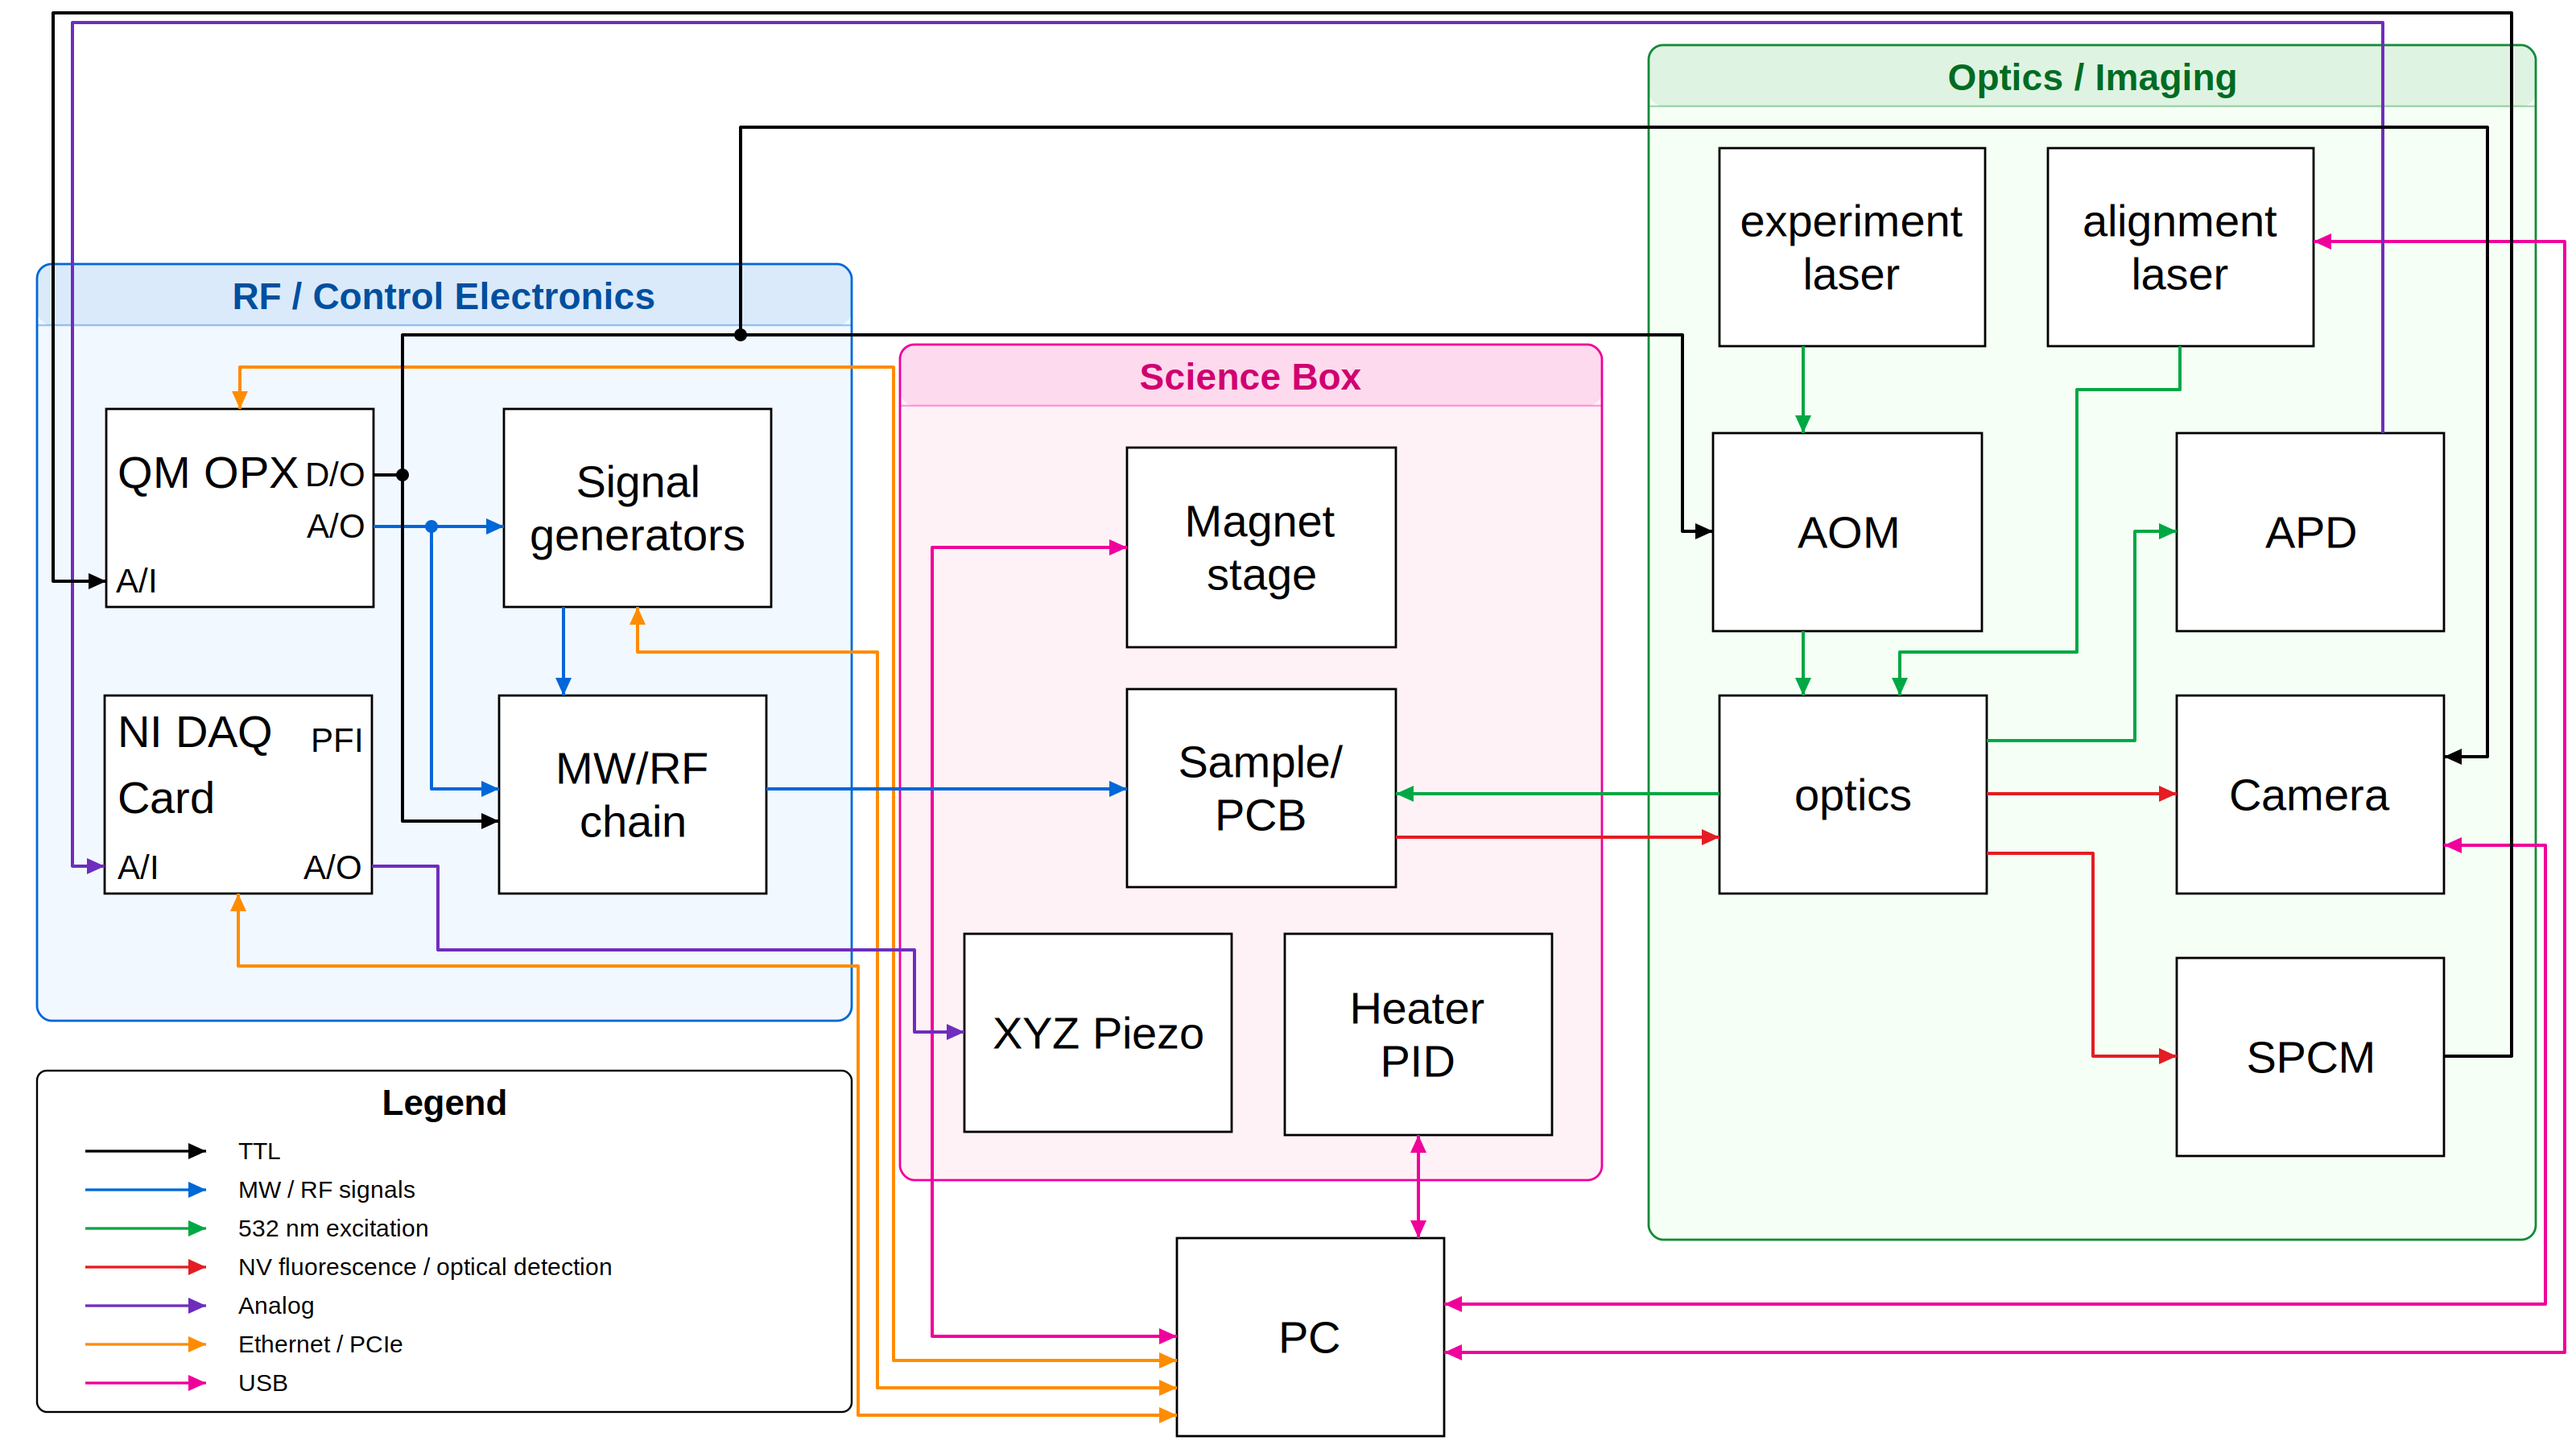
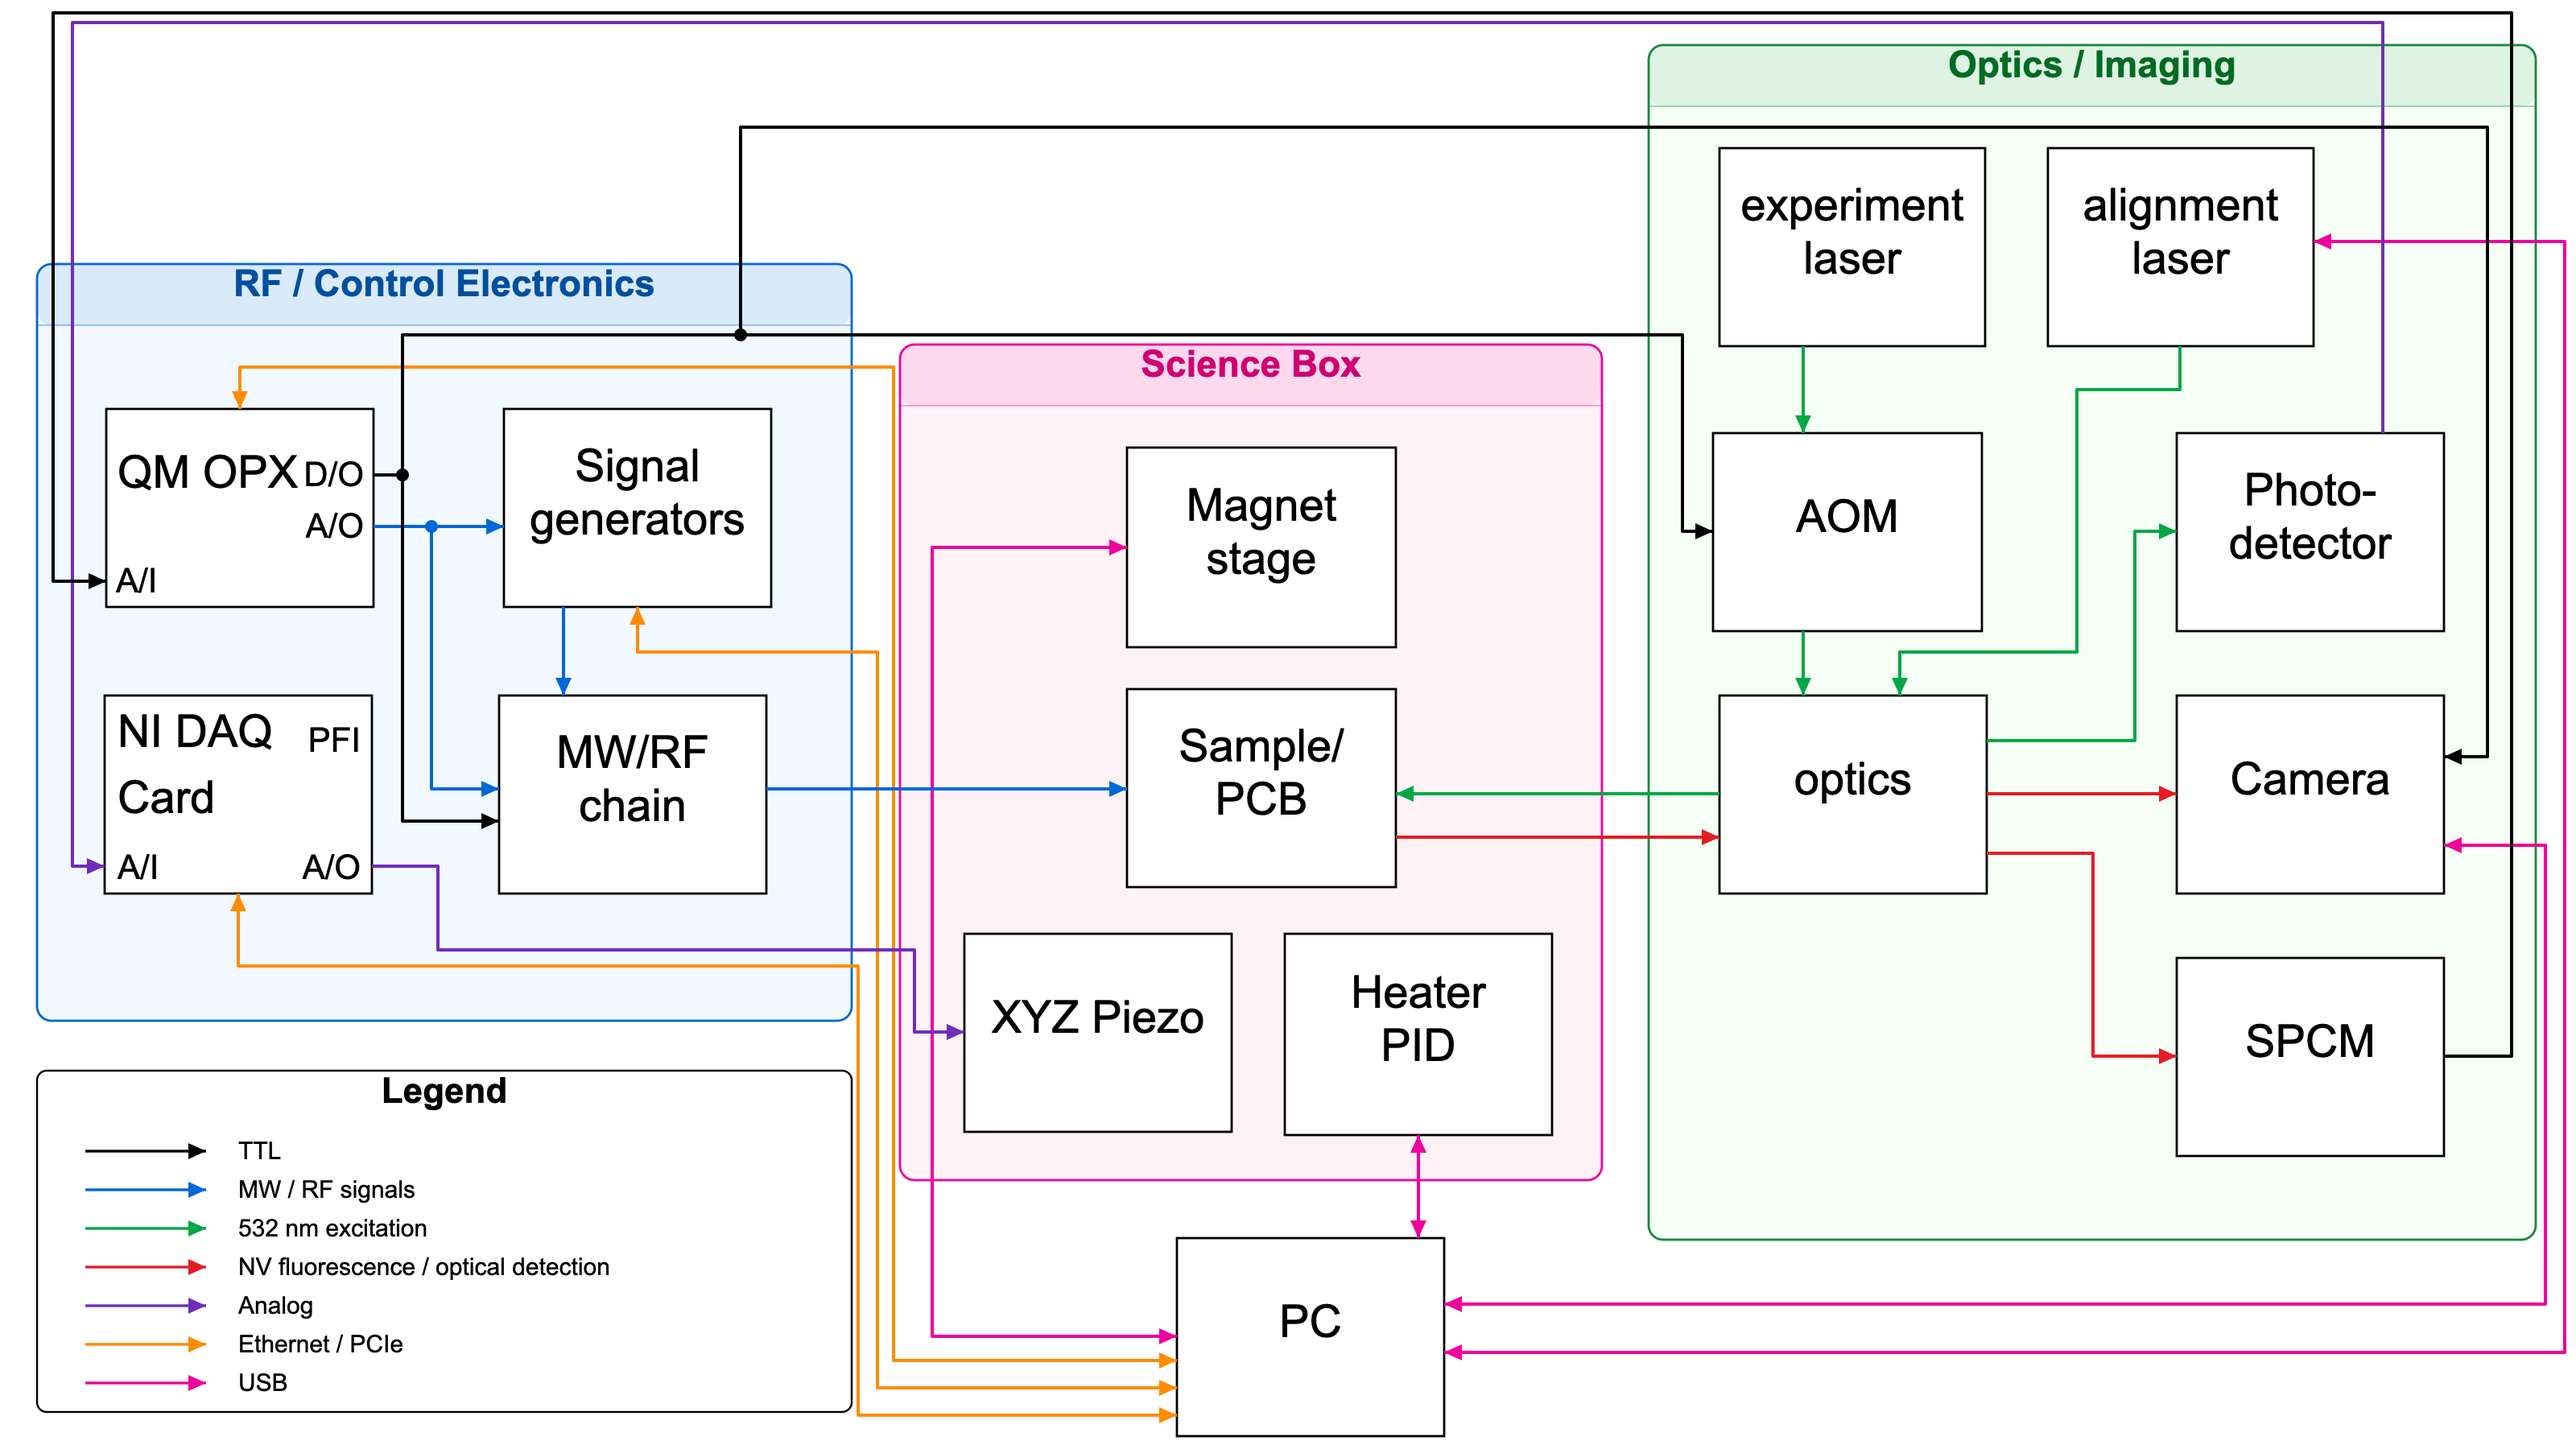
Update optics figures: photodetector symbols, new objective, cropped photo
- Replace the "APD" box in the optics schematic with a photodetector
  symbol (Thorlabs DET36A) and add the DET36A to the components table;
  relabel it in the system block diagram too
- Draw the SPCM in the confocal collection-path figure with the same
  photodetector symbol
- Replace the objective in the objective/sample figure with the
  drawing from the Draper symposium figure
- Crop the excitation-optics photo to the optical table; size the two
  photos proportionally so they stay on one row at equal height, and
  link each to its full-size image
- Write f_obj = f_tube / M with the 200 mm Nikon tube lens
- Link the CPW mention in the optics page to the CPW section on the
  RF page
- Fix the widefield beam-size sentence and the CPW/PCB photo caption
  (the objective is below the sample; the magnet mount is above)

diff --git a/docs/source/system_overview/optics.md b/docs/source/system_overview/optics.md
@@ -37,13 +37,14 @@ Schematic of the NV fluorescence microscope setup for confocal and widefield ima
 
 ```{raw} html
 <figure style="margin: 1.5rem 0;">
-  <div style="display: flex; gap: 0.75rem; align-items: flex-start; justify-content: center; flex-wrap: wrap;">
-    <div style="text-align: center;">
-      <img src="../_static/images/excitation_photo.png" style="display: block; margin: 0 auto; height: 340px; width: auto; max-width: 100%; object-fit: contain;">
+  <!-- flex-grow = image aspect ratio (width/height), so both photos share one row at equal height -->
+  <div style="display: flex; gap: 0.75rem; align-items: flex-start;">
+    <div style="flex: 1.87 1 0; min-width: 0; text-align: center;">
+      <a href="../_static/images/excitation_photo.png" target="_blank" rel="noopener"><img src="../_static/images/excitation_photo.png" alt="Excitation optics" style="display: block; width: 100%; height: auto;"></a>
       <div style="font-size: 0.85em; margin-top: 0.25rem;">(a)</div>
     </div>
-    <div style="text-align: center;">
-      <img src="../_static/images/detection_photo.png" style="display: block; margin: 0 auto; height: 340px; width: auto; max-width: 100%; object-fit: contain;">
+    <div style="flex: 0.75 1 0; min-width: 0; text-align: center;">
+      <a href="../_static/images/detection_photo.png" target="_blank" rel="noopener"><img src="../_static/images/detection_photo.png" alt="Collection optics" style="display: block; width: 100%; height: auto;"></a>
       <div style="font-size: 0.85em; margin-top: 0.25rem;">(b)</div>
     </div>
   </div>
@@ -67,6 +68,7 @@ Schematic of the NV fluorescence microscope setup for confocal and widefield ima
 | AOM telescope lenses | Thorlabs LA1422-A ($f_1$ = 400 mm), LA1422-A ($f_2$ = 40 mm) | Reduced beam size for faster switching |
 | Objective telescope lenses | Thorlabs LA1422-A ($f_1$ = 40 mm), LA1509-A ($f_2$ = 100 mm) | Magnifies beam to match the objective aperture |
 | Dichroic mirror | [Thorlabs DMLP567](https://www.thorlabs.com/item/DMLP567) | 567 nm cut-on |
+| Photodetector | [Thorlabs DET36A](https://www.thorlabs.com/item/DET36A) | Si biased detector, 350–1100 nm; detects the excitation light reflected by the reflective ND filter |
 | SPCM (Single-Photon Counting Module) | [Excelitas SPCM-AQRH-15-FC](https://www.digikey.com/en/products/detail/excelitas-technologies/SPCM-AQRH-15-FC/6235282) | Confocal detection |
 | SPAD camera | <a href="../_static/hardware/SPC3_user_manual_2.2.0B.pdf" target="_blank" rel="noopener">Micro Photon Devices SPC3</a> | Widefield detection, 64x32 pixel array |
 
@@ -102,16 +104,17 @@ exact procedure). The mirror pair closest to the fiber is fixed once both lasers
 ## Objective & Sample Interface
 
 For confocal imaging, the excitation light out of the fiber is collimated and magnified before the objective using two lenses as a telescope. Since we use the high power Sprout laser for both confocal and widefield measurements, there is an ND filter located on a flip mount (not shown in the schematic) to attenuate the power accordingly. The focal lengths of the lenses for the telescope are chosen to magnify the beam to match the back aperture of the objective, $D$. We use a Nikon CFI
-Plan Fluor 100X Oil, 1.3 NA objective, with effective focal length
+Plan Fluor 100X Oil, 1.3 NA objective. Its effective focal length is set by the magnification
+$M = 100$ and the focal length of the Nikon tube lens it is designed for, $f_\text{tube} = 200$ mm:
 
 $$
-f_\text{obj} = \frac{200~\text{mm}}{100} = 2~\text{mm}.
+f_\text{obj} = \frac{f_\text{tube}}{M} = \frac{200~\text{mm}}{100} = 2~\text{mm}.
 $$
 
 From geometric optics, the objective aperture is $D = 2\times\text{NA}\times f_\text{obj} \approx
 5.2$ mm. The green light enters the science box and is reflected off the dichroic mirror and sent through the objective ({numref}`Figure %s <fig-objective-schematic>`). 
 The diamond sample is mounted on a cover glass patterned with a microwave stripline (also referred to as a coplanar
-waveguide or CPW). Immersion oil is placed between the objective's front lens and the cover glass. The
+waveguide or CPW; see {ref}`Coplanar Waveguide & PCB <cpw-design>`). Immersion oil is placed between the objective's front lens and the cover glass. The
 objective's working distance (WD) is 0.16 mm for a 0.17 mm cover glass, so the cover glass surface
 closest to the objective sits 0.16 mm away when the objective is focused at the diamond surface
 (the CPW itself is only $\sim 500$ nm thick, negligible on this scale).
@@ -209,7 +212,7 @@ only a single 5$\times$5 NV array (spanning 9$\times$9 pixels) is illuminated at
 To illuminate the full array, collimated light is focused at the objective's back aperture using a
 flip-mounted lens (allowing the setup to switch between confocal and widefield modes). This lens
 has a 1 m focal length. Combined with the objective as a telescope, it is designed to produce a collimated beam
-at the sample plane with a 10 $\mu$m diameter which is large enough to illuminate the array (we measure a diameter of 6 $\mu$m in the {doc}`alignment <../calibration/optics_alignment>` section).
+at the sample plane with a 10 $\mu$m diameter. This diameter is larger than the span of the array but chosen so the illuminated area over the array has a more uniform power distribution (with a tradeoff of having to use more total laser power to match the optimal intensity per NV). We find after alignment that the beam diameter is approximately 7.5 $\mu$m (see the {doc}`alignment <../calibration/optics_alignment>` section).
 
 ```{figure} ../_static/images/SPAD_array.png
 :name: fig-spad-array

diff --git a/docs/source/system_overview/rf_electronics.md b/docs/source/system_overview/rf_electronics.md
@@ -249,7 +249,7 @@ planes are soldered to pins on the PCB at the edges of the cover glass.
     </div>
   </div>
   <figcaption style="text-align: center; font-size: 0.9em; margin-top: 0.5rem;">
-    (a) Diamond sample mounted on the CPW cover glass, viewed through a microscope eyepiece. The narrow section of the CPW runs horizontally across the diamond. (b) CPW cover glass soldered onto the PCB in the sample mount under the objective, with the four SMA cables connected.
+    (a) Diamond sample mounted on the CPW cover glass, viewed through a microscope eyepiece. The narrow section of the CPW runs horizontally across the diamond. (b) CPW cover glass soldered onto the PCB in the sample mount, with the four SMA cables connected. The objective sits below the sample; the mount above it holds the permanent bias magnet.
   </figcaption>
 </figure>
 ```
